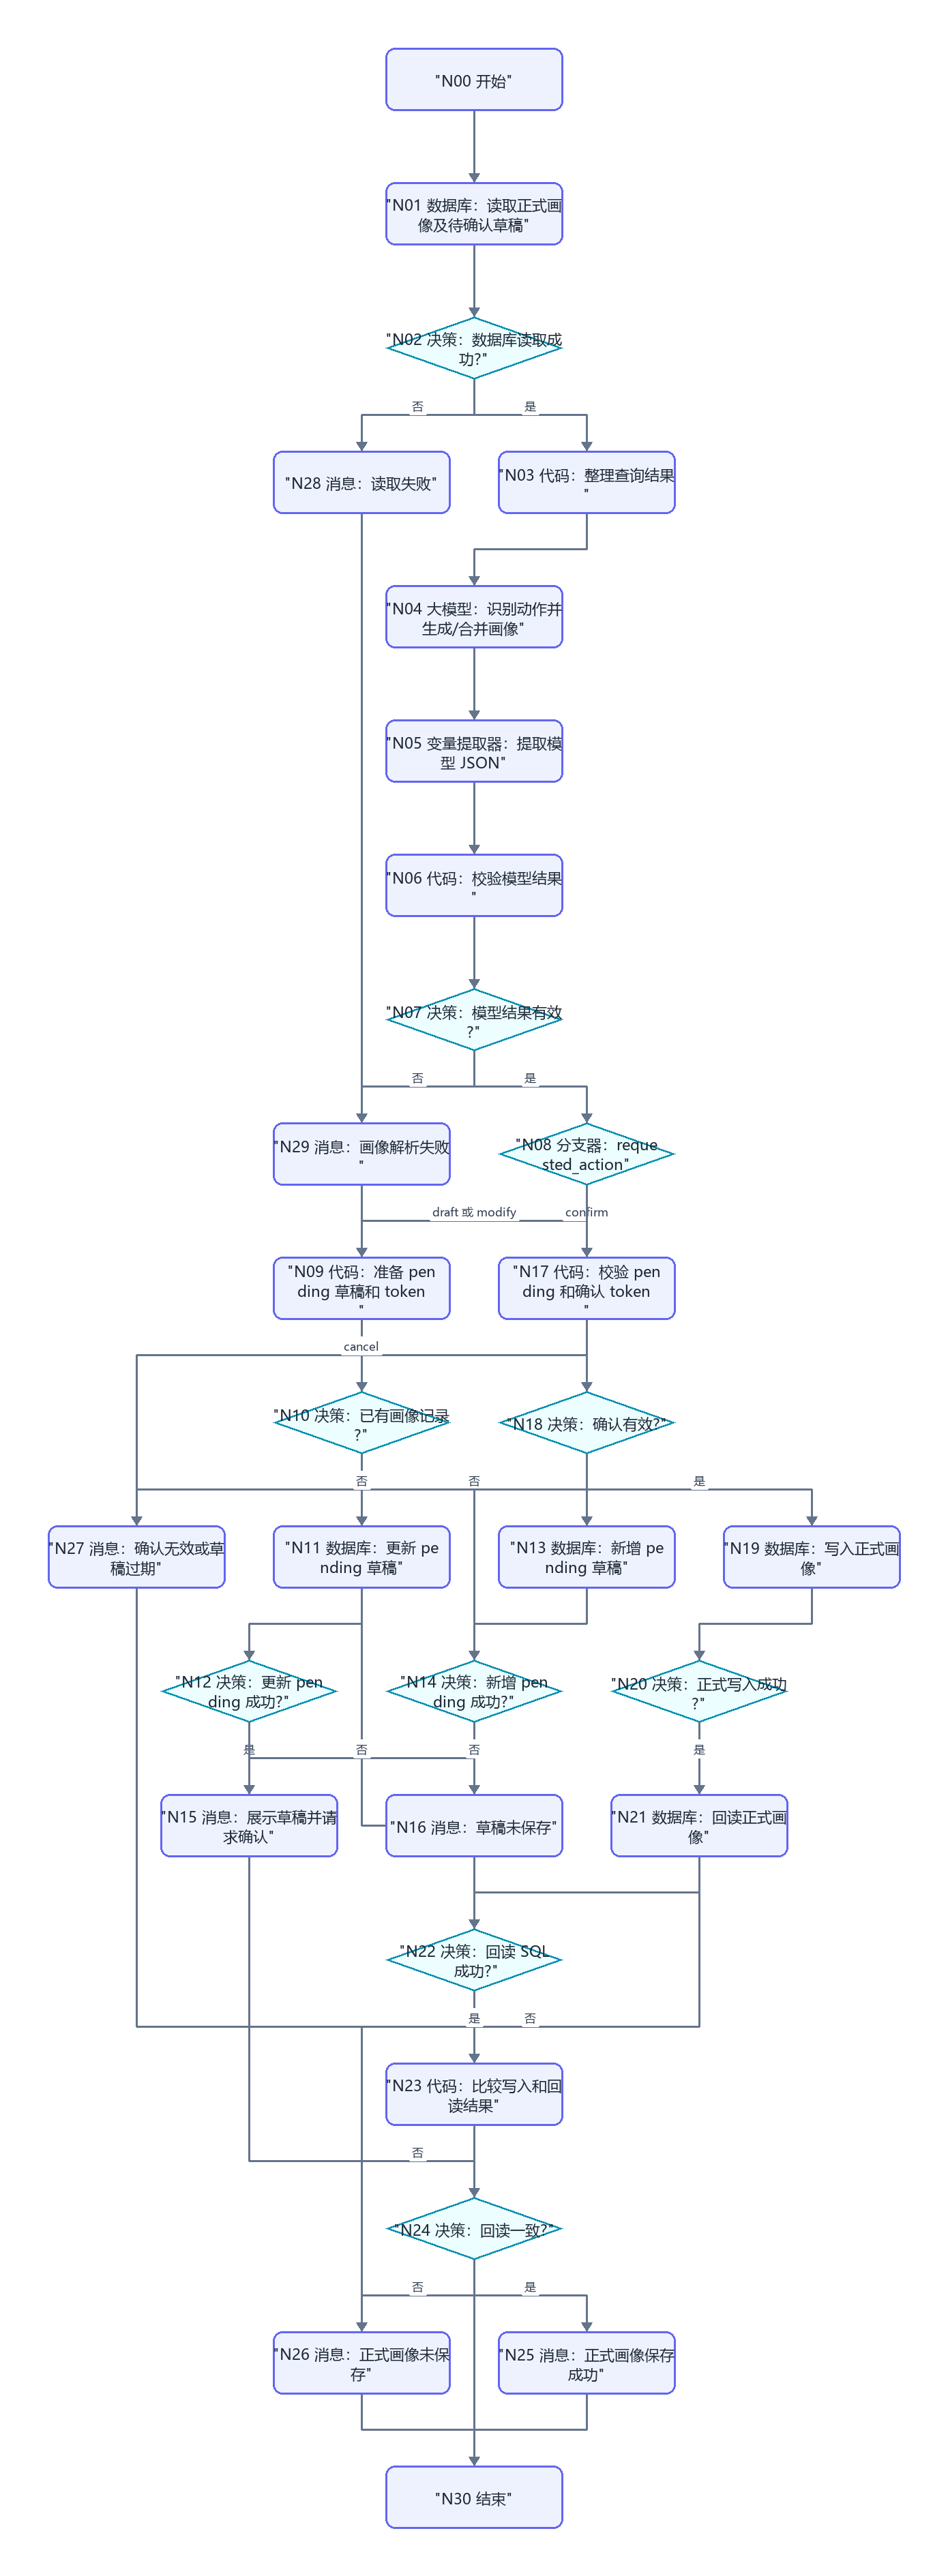
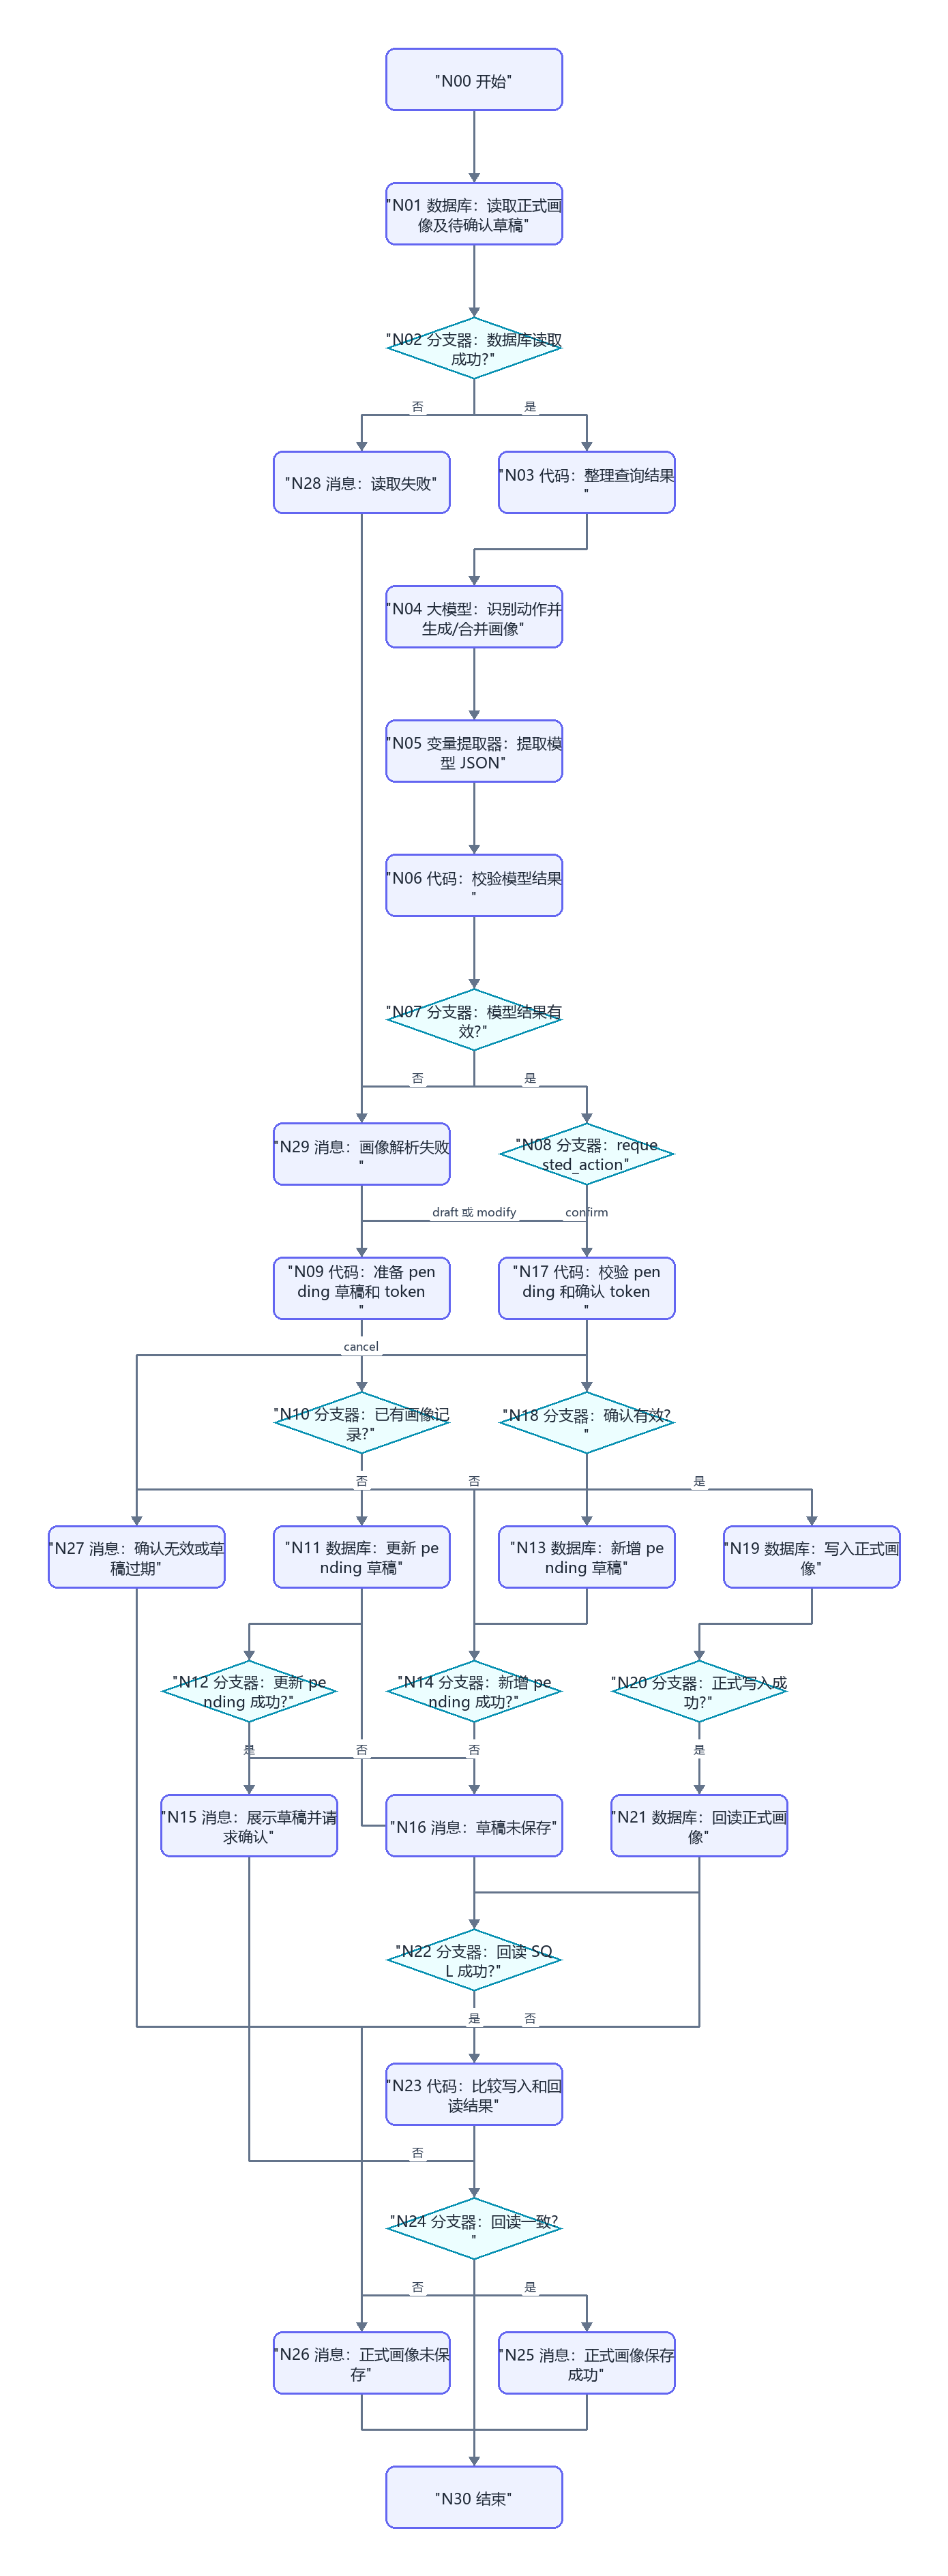
fix: use branch nodes for wf01 conditions

diff --git a/docs/workflows/WF-01-user-profile.md b/docs/workflows/WF-01-user-profile.md
@@ -50,6 +50,25 @@ updated_at
 
 `AGENT_USER_INPUT` 是用户说的话，不是用户 ID。必须在开始节点单独增加 `uid`。
 
+### 2.3 “决策”和“分支器”不要混用
+
+本平台的“决策”是大模型意图分类节点。它的右侧配置页包含：
+
+```text
+模型
+输入 / Query
+意图名称
+意图描述
+默认意图
+输出 / class_name
+```
+
+它适合判断一句自然语言属于哪个意图，例如把“确认保存”分类为 `confirm`，但不适合判断数据库返回的 Boolean。
+
+WF-01 已经通过变量提取器和代码节点得到明确字段，例如 `isSuccess`、`valid`、`has_record`，所以全部使用“分支器”进行确定性条件判断，不使用“决策”。
+
+如果画布上的 N02 已经拖成“决策”，请删除它，然后从左侧“逻辑”分类重新拖入“分支器”，重命名为 `N02 分支器：数据库读取成功?`。
+
 ## 3. 完整画布和节点编号
 
 ![WF-01 用户画像完整配置图](images/WF-01-user-profile.png)
@@ -57,34 +76,34 @@ updated_at
 ```mermaid
 flowchart TD
     N00["N00 开始"] --> N01["N01 数据库：读取正式画像及待确认草稿"]
-    N01 --> N02{"N02 决策：数据库读取成功?"}
+    N01 --> N02{"N02 分支器：数据库读取成功?"}
     N02 -->|否| N28["N28 消息：读取失败"] --> N30["N30 结束"]
     N02 -->|是| N03["N03 代码：整理查询结果"]
     N03 --> N04["N04 大模型：识别动作并生成/合并画像"]
     N04 --> N05["N05 变量提取器：提取模型 JSON"]
     N05 --> N06["N06 代码：校验模型结果"]
-    N06 --> N07{"N07 决策：模型结果有效?"}
+    N06 --> N07{"N07 分支器：模型结果有效?"}
     N07 -->|否| N29["N29 消息：画像解析失败"] --> N30
     N07 -->|是| N08{"N08 分支器：requested_action"}
     N08 -->|draft 或 modify| N09["N09 代码：准备 pending 草稿和 token"]
-    N09 --> N10{"N10 决策：已有画像记录?"}
-    N10 -->|是| N11["N11 数据库：更新 pending 草稿"] --> N12{"N12 决策：更新 pending 成功?"}
-    N10 -->|否| N13["N13 数据库：新增 pending 草稿"] --> N14{"N14 决策：新增 pending 成功?"}
+    N09 --> N10{"N10 分支器：已有画像记录?"}
+    N10 -->|是| N11["N11 数据库：更新 pending 草稿"] --> N12{"N12 分支器：更新 pending 成功?"}
+    N10 -->|否| N13["N13 数据库：新增 pending 草稿"] --> N14{"N14 分支器：新增 pending 成功?"}
     N12 -->|是| N15["N15 消息：展示草稿并请求确认"] --> N30
     N14 -->|是| N15
     N12 -->|否| N16["N16 消息：草稿未保存"] --> N30
     N14 -->|否| N16
     N08 -->|confirm| N17["N17 代码：校验 pending 和确认 token"]
-    N17 --> N18{"N18 决策：确认有效?"}
+    N17 --> N18{"N18 分支器：确认有效?"}
     N18 -->|否| N27["N27 消息：确认无效或草稿过期"] --> N30
     N18 -->|是| N19["N19 数据库：写入正式画像"]
-    N19 --> N20{"N20 决策：正式写入成功?"}
+    N19 --> N20{"N20 分支器：正式写入成功?"}
     N20 -->|否| N26["N26 消息：正式画像未保存"] --> N30
     N20 -->|是| N21["N21 数据库：回读正式画像"]
-    N21 --> N22{"N22 决策：回读 SQL 成功?"}
+    N21 --> N22{"N22 分支器：回读 SQL 成功?"}
     N22 -->|否| N26
     N22 -->|是| N23["N23 代码：比较写入和回读结果"]
-    N23 --> N24{"N24 决策：回读一致?"}
+    N23 --> N24{"N24 分支器：回读一致?"}
     N24 -->|否| N26
     N24 -->|是| N25["N25 消息：正式画像保存成功"] --> N30
     N08 -->|cancel| N27
@@ -101,8 +120,8 @@ flowchart TD
 | 大模型 | 1 | N04 |
 | 变量提取器 | 1 | N05 |
 | 代码 | 5 | N03、N06、N09、N17、N23 |
-| 决策 | 9 | N02、N07、N10、N12、N14、N18、N20、N22、N24 |
-| 分支器 | 1 | N08 |
+| 决策 | 0 | WF-01 不使用大模型意图分类节点 |
+| 分支器 | 10 | N02、N07、N08、N10、N12、N14、N18、N20、N22、N24 |
 | 消息 | 7 | N15、N16、N25、N26、N27、N28、N29 |
 | 结束 | 系统自带 | N30 |
 
@@ -139,7 +158,7 @@ confirmation_token
 ### 6.1 画布位置
 
 ```text
-N00 开始 → N01 数据库 → N02 决策
+N00 开始 → N01 数据库 → N02 分支器
 ```
 
 ### 6.2 右侧配置
@@ -184,7 +203,7 @@ N01.message
 N01.outputList
 ```
 
-## 7. N02 决策：数据库读取成功？
+## 7. N02 分支器：数据库读取成功？
 
 点击 N02，在条件左值选择：
 
@@ -323,7 +342,7 @@ N04 / output
 
 解析失败时，N05 的失败信息要传给 N06，不得进入数据库写入。
 
-## 11. N06 代码和 N07 决策：校验模型结果
+## 11. N06 代码和 N07 分支器：校验模型结果
 
 N06 输入：
 
@@ -396,7 +415,7 @@ return {
 
 输出：四个同名变量。
 
-## 14. N10 决策：已有画像记录？
+## 14. N10 分支器：已有画像记录？
 
 条件左值：
 
@@ -655,7 +674,7 @@ confirmation_token = wrong-token
 - [ ] N00 有 `AGENT_USER_INPUT`、`uid`、可选 `confirmation_token`。
 - [ ] N01 的 uid 引用 N00.uid，而不是 AGENT_USER_INPUT。
 - [ ] 5 个数据库节点都能在流程图和本教程找到同编号配置。
-- [ ] 每个决策明确写了左值、条件和去向。
+- [ ] 每个分支器明确写了判断变量、条件和去向。
 - [ ] 草稿只有写入成功后才展示 token。
 - [ ] confirm 不重新生成画像，只读取已保存 pending。
 - [ ] 正式写入后必须回读一致。